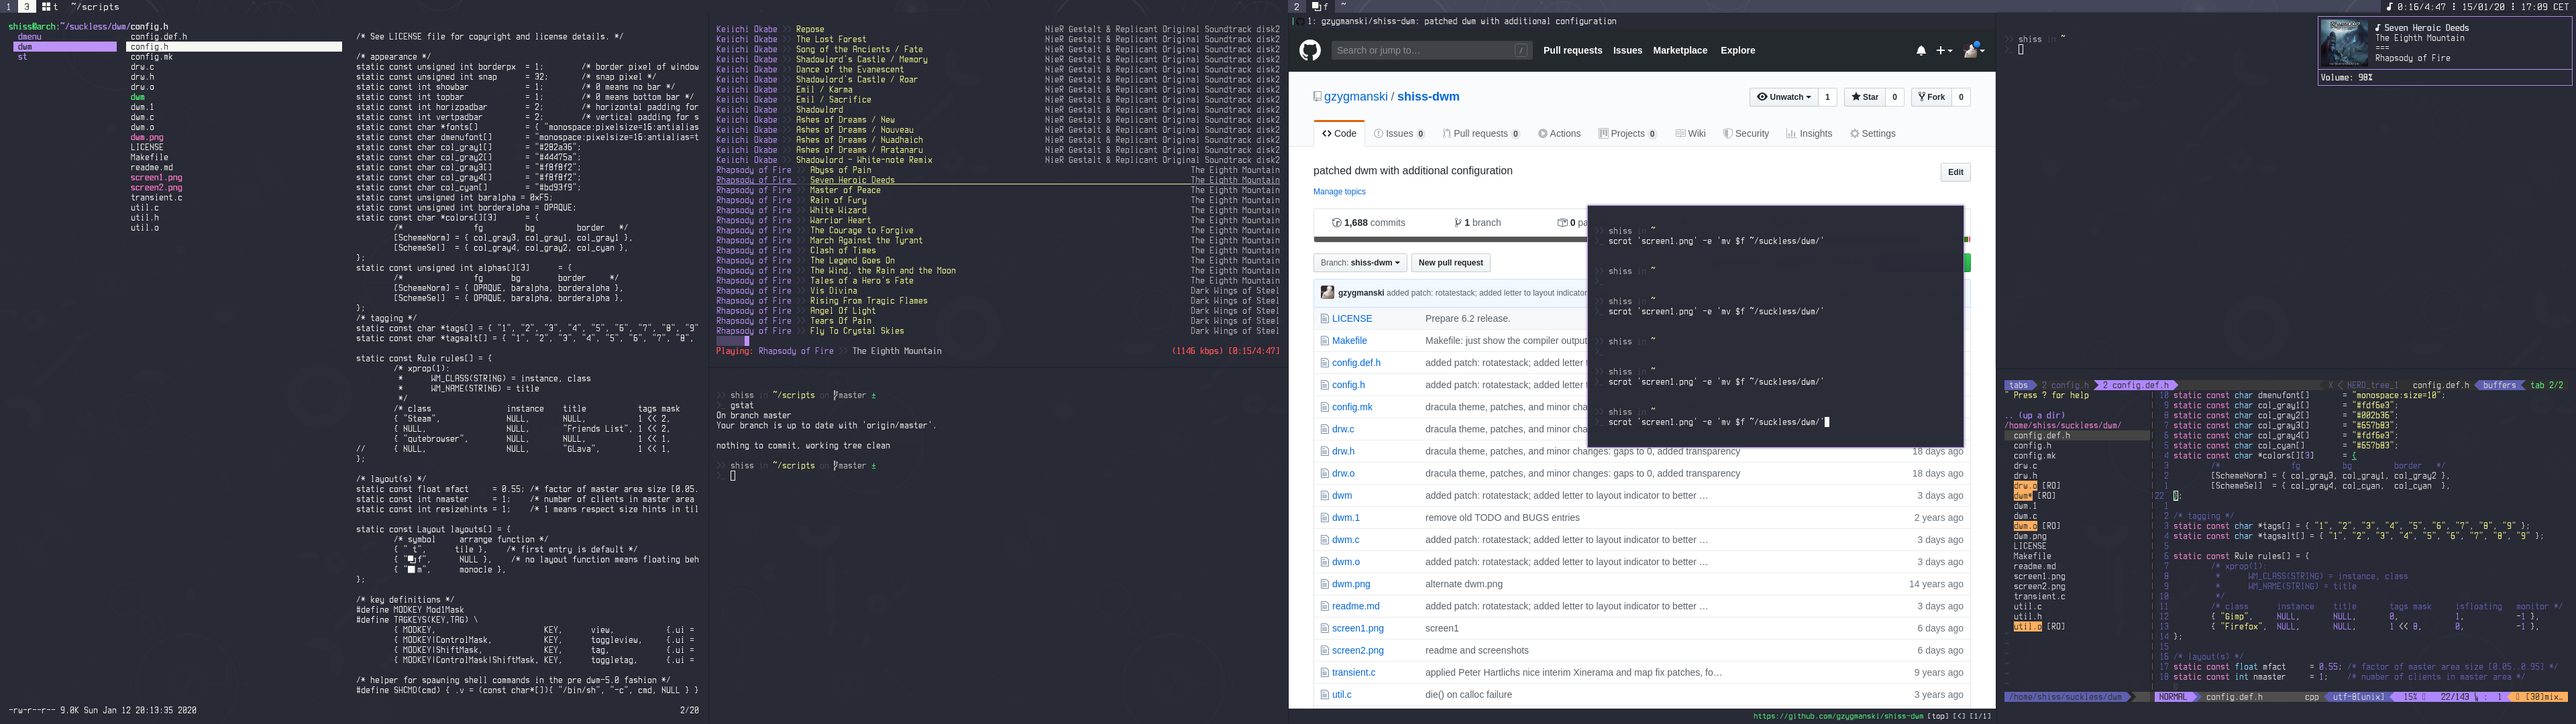
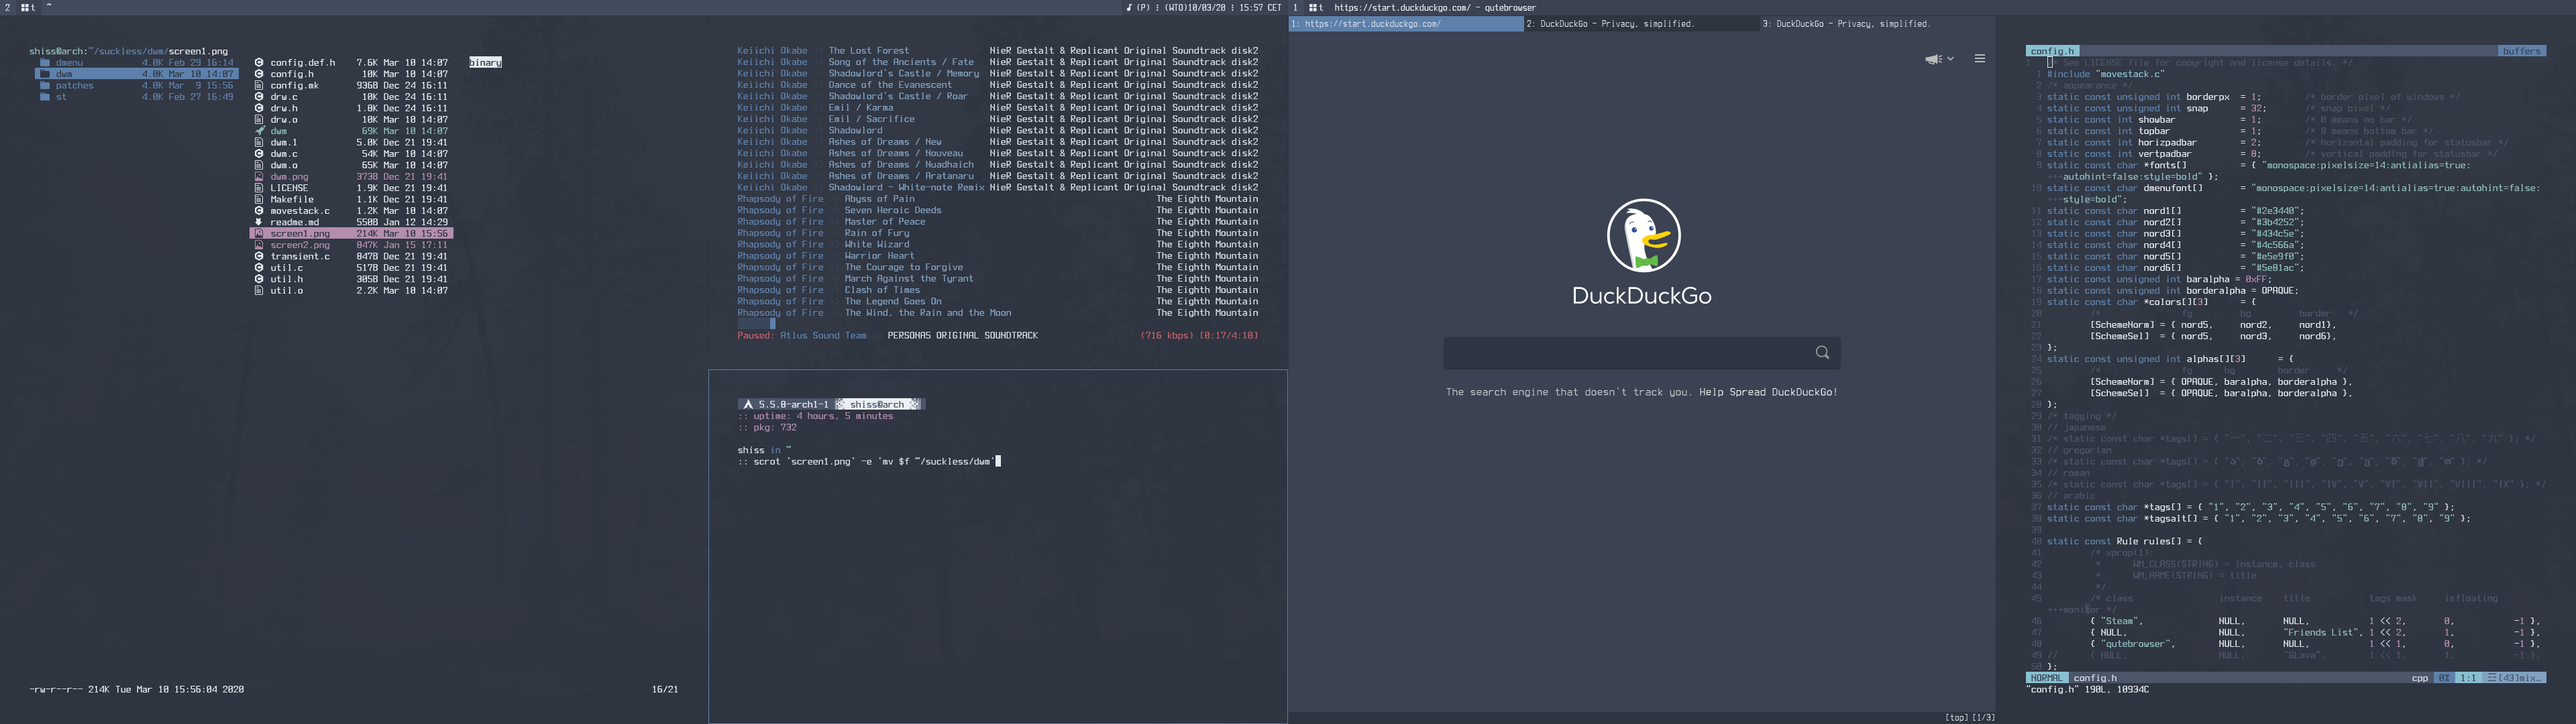
readme and screenshots update

diff --git a/readme.md b/readme.md
@@ -9,7 +9,11 @@ Patches
 - dwm-monoclesymbol-6.2.diff
 - dwm-statuspadding-20150524-c8e9479.diff
 - dwm-noborder-6.2.diff
-- dwm-rotatestack-20161021-ab9571b.diff
+- dwm-movestack-6.1.diff
+
+Scheme
+------
+nord
 
 Screens
 -------
